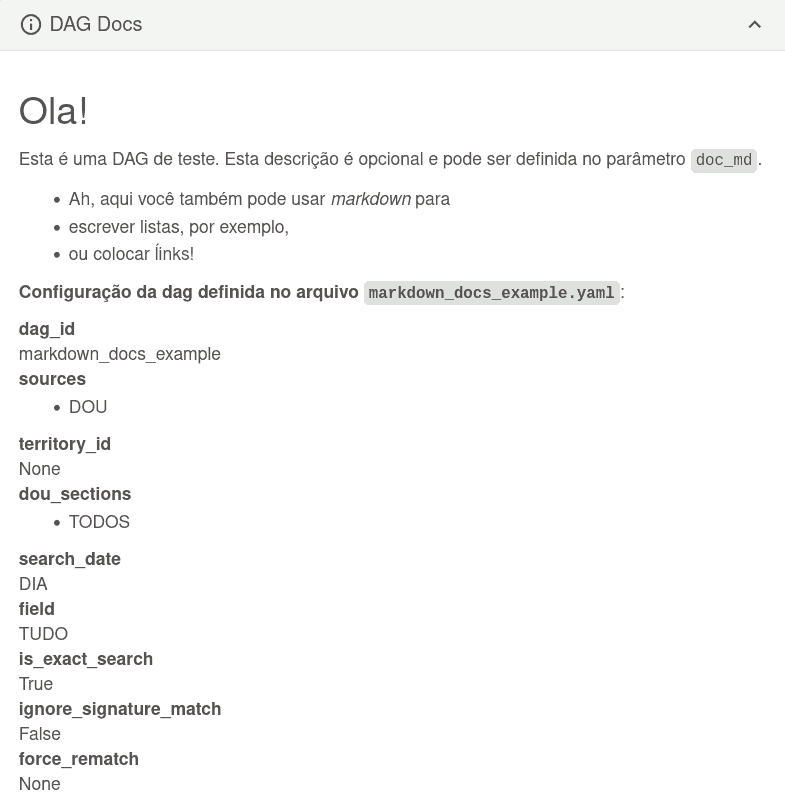
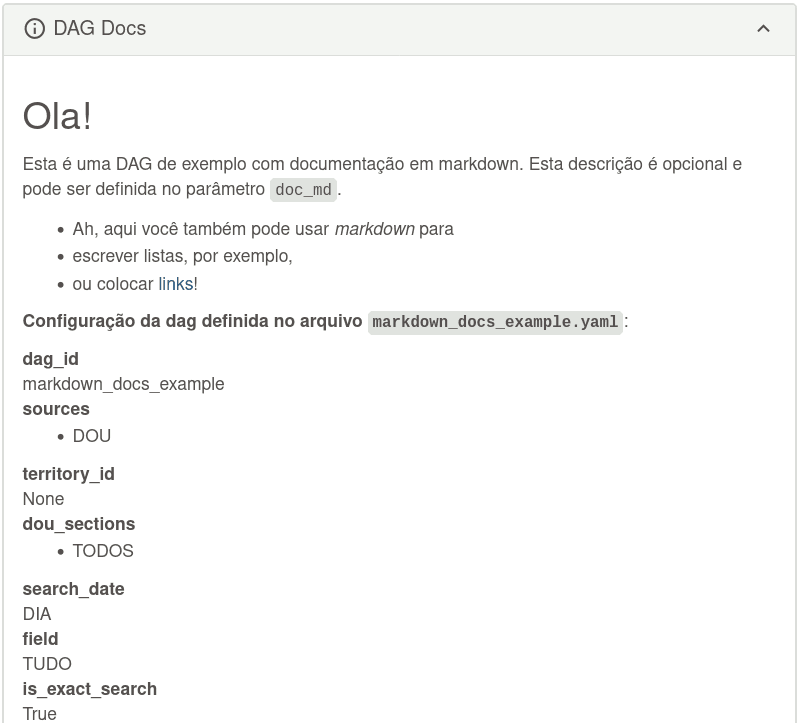
Fix spelling in "links"

diff --git a/tests/parsers_test.py b/tests/parsers_test.py
@@ -164,7 +164,7 @@ def test_hash_dag_id(yaml_parser, dag_id, size, hashed):
 
                       * Ah, aqui você também pode usar *markdown* para
                       * escrever listas, por exemplo,
-                      * ou colocar [ĺinks](graph)!""").strip(),
+                      * ou colocar [links](graph)!""").strip(),
                 "dag_tags": {"dou", "generated_dag"}
             }
         ),

diff --git a/README.md b/README.md
@@ -280,7 +280,7 @@ dag:
 
       * Ah, aqui você também pode usar *markdown* para
       * escrever listas, por exemplo,
-      * ou colocar [ĺinks](graph)!
+      * ou colocar [links](graph)!
 ```
 
 Para ver essa documentação, basta clicar o botão "DAG Docs" em qualquer
